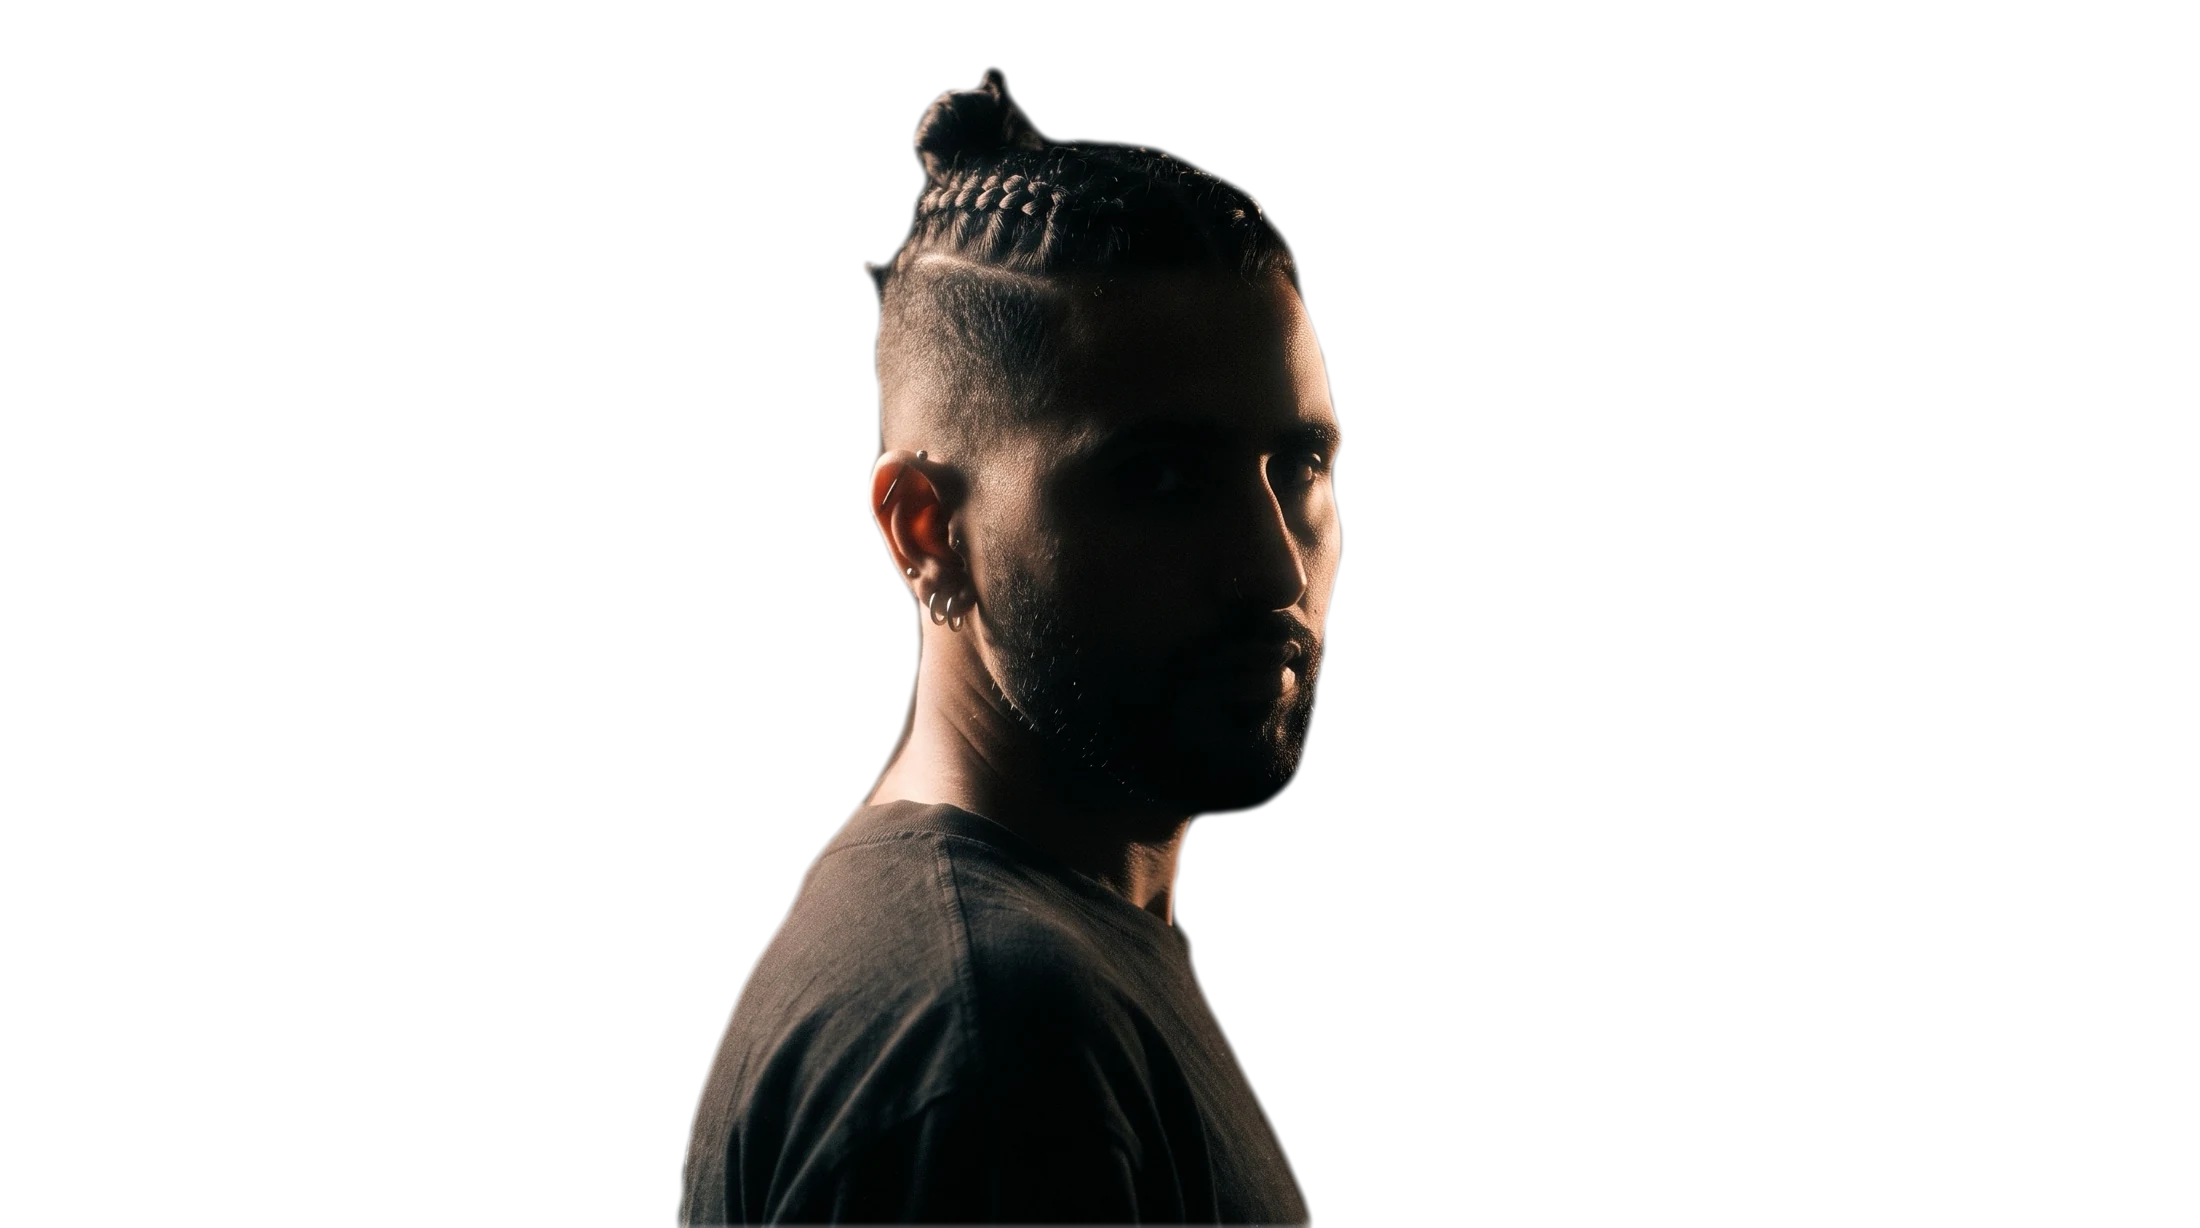
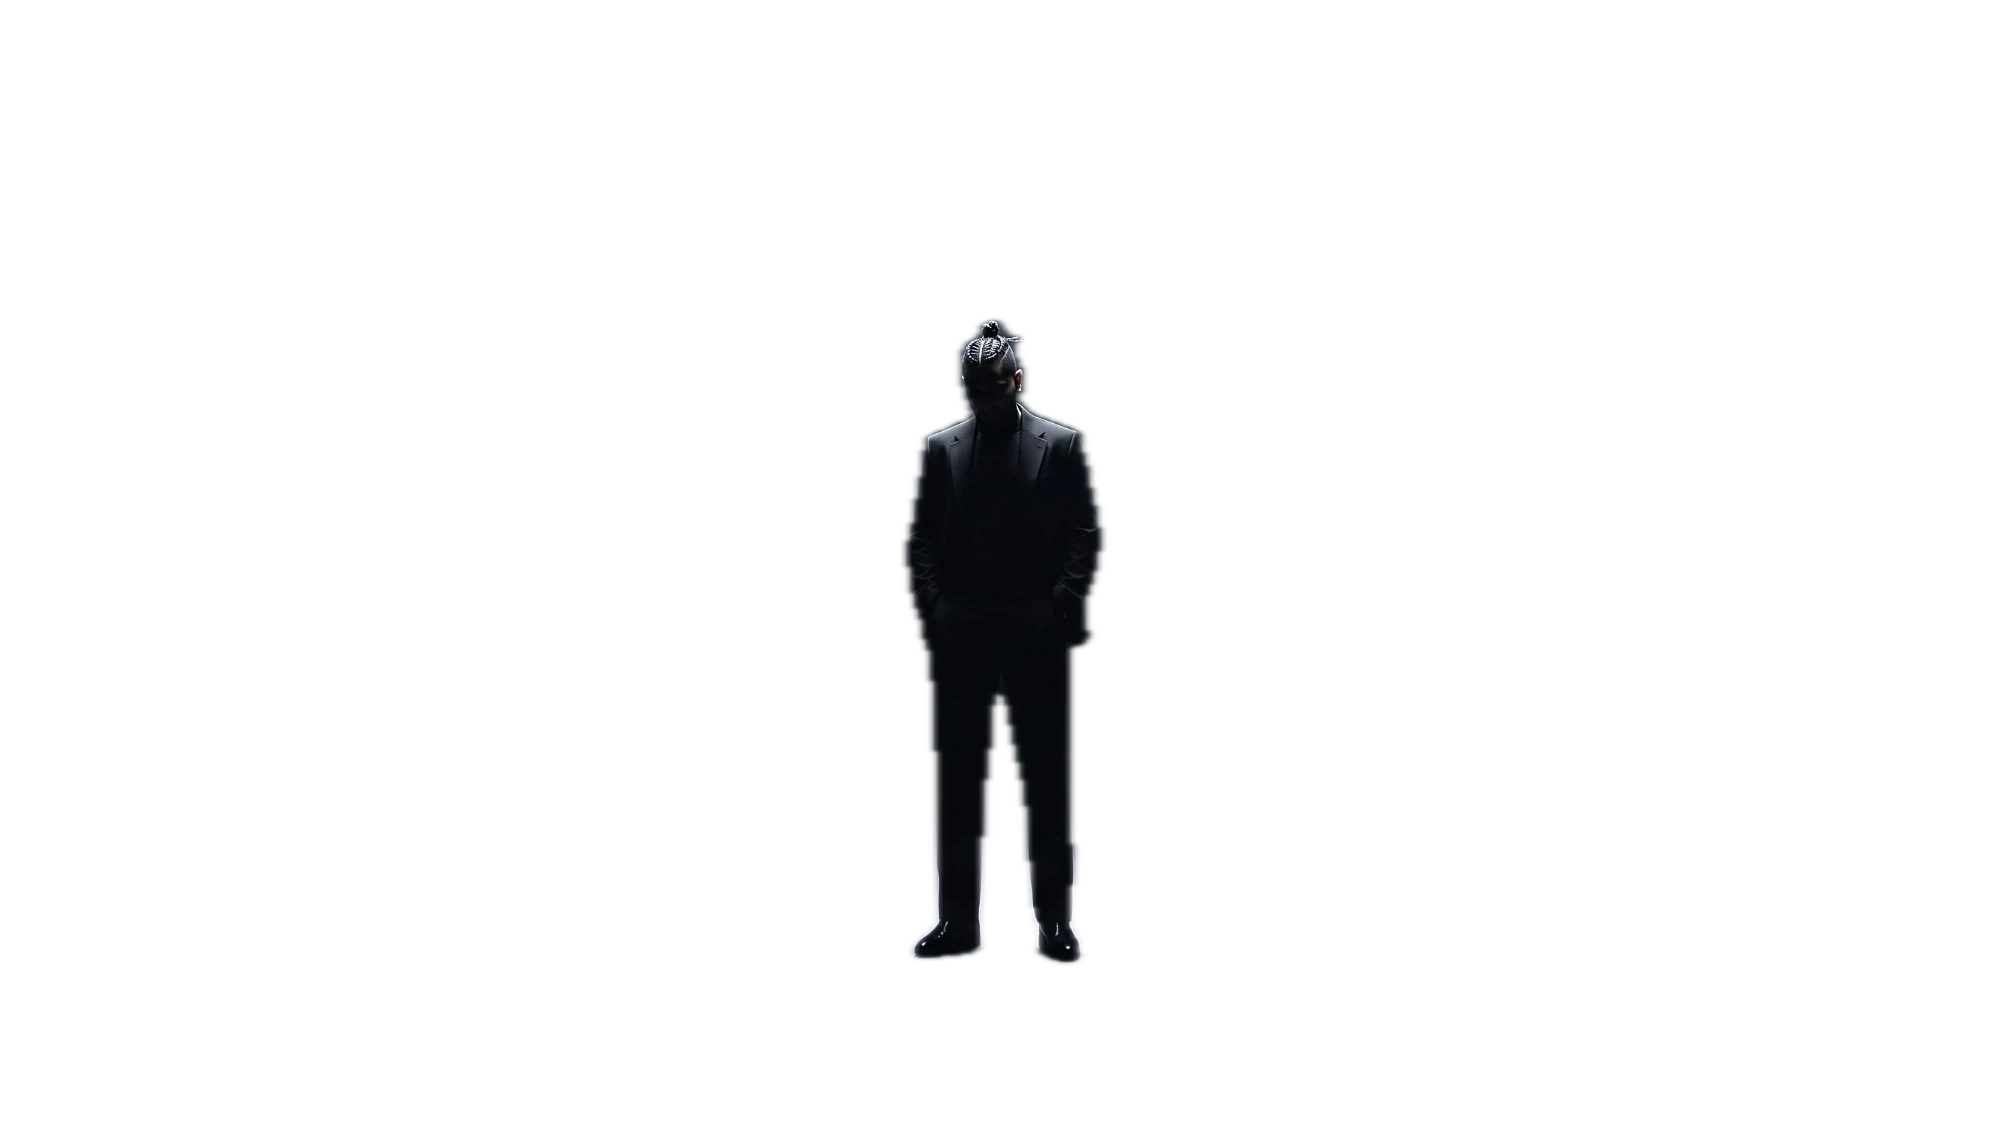
Hero: name behind the figure via new cutout, Marketing line in front with mist, text lower on desktop, above the head on phones

Changed region(s): [[0.31, 0.0622, 0.62, 1.0]]

diff --git a/index.html b/index.html
@@ -406,18 +406,20 @@ body.mnav-open .mnav-sec{opacity:1;transform:none}
   padding-bottom:11vh;-webkit-user-select:none;user-select:none}
 .au-hero img{position:absolute;inset:0;width:100%;height:100%;object-fit:cover;object-position:center 40%;
   pointer-events:none;-webkit-user-drag:none;user-select:none}
-/* Name sits centered over the photo. Letters crossing the figure (a soft band at the horizontal center)
-   crossfade from sharp to a blurred glow. --iw is the rendered photo width, the band scales with it. */
+/* Marketing line sits in front of the figure. Letters crossing the figure (a soft band at the horizontal center)
+   crossfade from sharp to a blurred glow. --iw is the rendered photo width, the band scales with it.
+   The name sits behind the figure, hero-cutout.webp is the person cut from hero.jpg and layered on top. */
 .au-hero{--iw:max(100vw,calc((100vh - 44px)*1.778));--core:calc(var(--iw)*.035);--fade:calc(var(--iw)*.07)}
-.au-hero .au-top{position:absolute;inset:0;z-index:1;display:flex;flex-direction:column;justify-content:center;text-align:center}
-.au-hero .w-sharp{display:block;-webkit-mask-image:linear-gradient(90deg,#000 calc(50% - var(--fade)),transparent calc(50% - var(--core)),transparent calc(50% + var(--core)),#000 calc(50% + var(--fade)));mask-image:linear-gradient(90deg,#000 calc(50% - var(--fade)),transparent calc(50% - var(--core)),transparent calc(50% + var(--core)),#000 calc(50% + var(--fade)))}
+.au-hero .au-top{position:absolute;inset:0;padding-top:16vh;display:flex;flex-direction:column;justify-content:center;text-align:center}
+.au-hero .au-cut{z-index:2}
+.au-hero .au-role .w-sharp{display:block;-webkit-mask-image:linear-gradient(90deg,#000 calc(50% - var(--fade)),transparent calc(50% - var(--core)),transparent calc(50% + var(--core)),#000 calc(50% + var(--fade)));mask-image:linear-gradient(90deg,#000 calc(50% - var(--fade)),transparent calc(50% - var(--core)),transparent calc(50% + var(--core)),#000 calc(50% + var(--fade)))}
 .au-hero .w-mist{position:absolute;inset:-.5em 0;padding:.5em 0;display:block;color:#fff;opacity:.8;filter:blur(4px);text-shadow:0 0 30px rgba(255,255,255,.6);-webkit-mask-image:linear-gradient(90deg,transparent calc(50% - var(--fade)),#000 calc(50% - var(--core)),#000 calc(50% + var(--core)),transparent calc(50% + var(--fade)));mask-image:linear-gradient(90deg,transparent calc(50% - var(--fade)),#000 calc(50% - var(--core)),#000 calc(50% + var(--core)),transparent calc(50% + var(--fade)))}
 .au-hero .au-role .w-mist{filter:blur(1.5px);opacity:.9;text-shadow:0 0 14px rgba(255,255,255,.7)}
-.au-hero .au-word{position:relative;margin:0;text-align:center;
+.au-hero .au-word{position:relative;z-index:1;margin:0;text-align:center;
   pointer-events:none;font-family:Archivo,"Helvetica Neue",Arial,sans-serif;font-weight:900;font-stretch:125%;
   font-variation-settings:'wdth' 125,'wght' 900;font-size:min(13vw,24vh);letter-spacing:-.055em;line-height:.88;
   text-transform:uppercase;white-space:nowrap;isolation:isolate}
-@media(max-width:820px){.au-hero img{inset:auto 0 0 0;height:70%}.au-hero img:not(.au-cut){-webkit-mask-image:linear-gradient(transparent,#000 20%);mask-image:linear-gradient(transparent,#000 20%)}.au-hero{--iw:calc((100vh - 44px)*1.245)}.au-hero .au-word{font-size:17.5vw;line-height:.84;white-space:normal}}
+@media(max-width:820px){.au-hero img{inset:auto 0 0 0;height:70%}.au-hero img:not(.au-cut){-webkit-mask-image:linear-gradient(transparent,#000 20%);mask-image:linear-gradient(transparent,#000 20%)}.au-hero .au-top{inset:0 0 54% 0;padding-top:0;justify-content:flex-end}.au-hero .au-role .w-sharp{-webkit-mask-image:none;mask-image:none}.au-hero .w-mist{display:none}.au-hero .au-word{font-size:17.5vw;line-height:.84;white-space:normal}}
 .au-hero .au-word .w-sharp{color:#b9b9bd}
 .au-hero .au-word .w-amb{position:absolute;inset:0;display:block;color:#fff;opacity:.28;filter:blur(18px);z-index:-1}
 .au-hero .au-need{position:absolute;inset:0;display:none;align-items:center;justify-content:center;
@@ -425,7 +427,7 @@ body.mnav-open .mnav-sec{opacity:1;transform:none}
   color:#a9a9ac;background:repeating-linear-gradient(45deg,#151515,#151515 12px,#000 12px,#000 24px)}
 .au-hero.au-noimg .au-need{display:flex}
 .au-hero.au-noimg img{display:none}
-.au-hero .au-role{position:relative;color:#fff;font-family:var(--sf);
+.au-hero .au-role{position:relative;z-index:3;color:#fff;font-family:var(--sf);
   font-weight:400;font-size:clamp(17px,2.2vw,30px);letter-spacing:.01em;margin:22px 0 0;
   text-align:center;text-shadow:0 2px 16px rgba(0,0,0,.35)}
 
@@ -568,9 +570,10 @@ body.mnav-open .mnav-sec{opacity:1;transform:none}
 <div class="au-hero" id="auHero" oncontextmenu="return false">
   <img src="assets/landing/hero.jpg" alt="Ahmer Faheem" draggable="false" onerror="this.parentElement.classList.add('au-noimg')">
   <div class="au-top">
-    <h1 class="au-word"><span class="w-sharp">AHMER<br class="wb"> FAHEEM</span><span class="w-amb" aria-hidden="true">AHMER<br class="wb"> FAHEEM</span><span class="w-mist" aria-hidden="true">AHMER<br class="wb"> FAHEEM</span></h1>
+    <h1 class="au-word"><span class="w-sharp">AHMER<br class="wb"> FAHEEM</span><span class="w-amb" aria-hidden="true">AHMER<br class="wb"> FAHEEM</span></h1>
     <p class="au-role"><span class="w-sharp">Marketing. Creative. Operations.</span><span class="w-mist" aria-hidden="true">Marketing. Creative. Operations.</span></p>
   </div>
+  <img class="au-cut" src="assets/landing/hero-cutout.webp" alt="" draggable="false">
 </div>
 
 <main class="au">

diff --git a/portfolio.html b/portfolio.html
@@ -406,18 +406,20 @@ body.mnav-open .mnav-sec{opacity:1;transform:none}
   padding-bottom:11vh;-webkit-user-select:none;user-select:none}
 .au-hero img{position:absolute;inset:0;width:100%;height:100%;object-fit:cover;object-position:center 40%;
   pointer-events:none;-webkit-user-drag:none;user-select:none}
-/* Name sits centered over the photo. Letters crossing the figure (a soft band at the horizontal center)
-   crossfade from sharp to a blurred glow. --iw is the rendered photo width, the band scales with it. */
+/* Marketing line sits in front of the figure. Letters crossing the figure (a soft band at the horizontal center)
+   crossfade from sharp to a blurred glow. --iw is the rendered photo width, the band scales with it.
+   The name sits behind the figure, hero-cutout.webp is the person cut from hero.jpg and layered on top. */
 .au-hero{--iw:max(100vw,calc((100vh - 44px)*1.778));--core:calc(var(--iw)*.035);--fade:calc(var(--iw)*.07)}
-.au-hero .au-top{position:absolute;inset:0;z-index:1;display:flex;flex-direction:column;justify-content:center;text-align:center}
-.au-hero .w-sharp{display:block;-webkit-mask-image:linear-gradient(90deg,#000 calc(50% - var(--fade)),transparent calc(50% - var(--core)),transparent calc(50% + var(--core)),#000 calc(50% + var(--fade)));mask-image:linear-gradient(90deg,#000 calc(50% - var(--fade)),transparent calc(50% - var(--core)),transparent calc(50% + var(--core)),#000 calc(50% + var(--fade)))}
+.au-hero .au-top{position:absolute;inset:0;padding-top:16vh;display:flex;flex-direction:column;justify-content:center;text-align:center}
+.au-hero .au-cut{z-index:2}
+.au-hero .au-role .w-sharp{display:block;-webkit-mask-image:linear-gradient(90deg,#000 calc(50% - var(--fade)),transparent calc(50% - var(--core)),transparent calc(50% + var(--core)),#000 calc(50% + var(--fade)));mask-image:linear-gradient(90deg,#000 calc(50% - var(--fade)),transparent calc(50% - var(--core)),transparent calc(50% + var(--core)),#000 calc(50% + var(--fade)))}
 .au-hero .w-mist{position:absolute;inset:-.5em 0;padding:.5em 0;display:block;color:#fff;opacity:.8;filter:blur(4px);text-shadow:0 0 30px rgba(255,255,255,.6);-webkit-mask-image:linear-gradient(90deg,transparent calc(50% - var(--fade)),#000 calc(50% - var(--core)),#000 calc(50% + var(--core)),transparent calc(50% + var(--fade)));mask-image:linear-gradient(90deg,transparent calc(50% - var(--fade)),#000 calc(50% - var(--core)),#000 calc(50% + var(--core)),transparent calc(50% + var(--fade)))}
 .au-hero .au-role .w-mist{filter:blur(1.5px);opacity:.9;text-shadow:0 0 14px rgba(255,255,255,.7)}
-.au-hero .au-word{position:relative;margin:0;text-align:center;
+.au-hero .au-word{position:relative;z-index:1;margin:0;text-align:center;
   pointer-events:none;font-family:Archivo,"Helvetica Neue",Arial,sans-serif;font-weight:900;font-stretch:125%;
   font-variation-settings:'wdth' 125,'wght' 900;font-size:min(13vw,24vh);letter-spacing:-.055em;line-height:.88;
   text-transform:uppercase;white-space:nowrap;isolation:isolate}
-@media(max-width:820px){.au-hero img{inset:auto 0 0 0;height:70%}.au-hero img:not(.au-cut){-webkit-mask-image:linear-gradient(transparent,#000 20%);mask-image:linear-gradient(transparent,#000 20%)}.au-hero{--iw:calc((100vh - 44px)*1.245)}.au-hero .au-word{font-size:17.5vw;line-height:.84;white-space:normal}}
+@media(max-width:820px){.au-hero img{inset:auto 0 0 0;height:70%}.au-hero img:not(.au-cut){-webkit-mask-image:linear-gradient(transparent,#000 20%);mask-image:linear-gradient(transparent,#000 20%)}.au-hero .au-top{inset:0 0 54% 0;padding-top:0;justify-content:flex-end}.au-hero .au-role .w-sharp{-webkit-mask-image:none;mask-image:none}.au-hero .w-mist{display:none}.au-hero .au-word{font-size:17.5vw;line-height:.84;white-space:normal}}
 .au-hero .au-word .w-sharp{color:#b9b9bd}
 .au-hero .au-word .w-amb{position:absolute;inset:0;display:block;color:#fff;opacity:.28;filter:blur(18px);z-index:-1}
 .au-hero .au-need{position:absolute;inset:0;display:none;align-items:center;justify-content:center;
@@ -425,7 +427,7 @@ body.mnav-open .mnav-sec{opacity:1;transform:none}
   color:#a9a9ac;background:repeating-linear-gradient(45deg,#151515,#151515 12px,#000 12px,#000 24px)}
 .au-hero.au-noimg .au-need{display:flex}
 .au-hero.au-noimg img{display:none}
-.au-hero .au-role{position:relative;color:#fff;font-family:var(--sf);
+.au-hero .au-role{position:relative;z-index:3;color:#fff;font-family:var(--sf);
   font-weight:400;font-size:clamp(17px,2.2vw,30px);letter-spacing:.01em;margin:22px 0 0;
   text-align:center;text-shadow:0 2px 16px rgba(0,0,0,.35)}
 
@@ -568,9 +570,10 @@ body.mnav-open .mnav-sec{opacity:1;transform:none}
 <div class="au-hero" id="auHero" oncontextmenu="return false">
   <img src="assets/landing/hero.jpg" alt="Ahmer Faheem" draggable="false" onerror="this.parentElement.classList.add('au-noimg')">
   <div class="au-top">
-    <h1 class="au-word"><span class="w-sharp">AHMER<br class="wb"> FAHEEM</span><span class="w-amb" aria-hidden="true">AHMER<br class="wb"> FAHEEM</span><span class="w-mist" aria-hidden="true">AHMER<br class="wb"> FAHEEM</span></h1>
+    <h1 class="au-word"><span class="w-sharp">AHMER<br class="wb"> FAHEEM</span><span class="w-amb" aria-hidden="true">AHMER<br class="wb"> FAHEEM</span></h1>
     <p class="au-role"><span class="w-sharp">Marketing. Creative. Operations.</span><span class="w-mist" aria-hidden="true">Marketing. Creative. Operations.</span></p>
   </div>
+  <img class="au-cut" src="assets/landing/hero-cutout.webp" alt="" draggable="false">
 </div>
 
 <main class="au">
